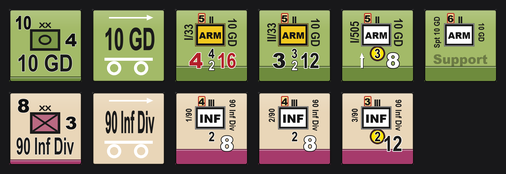
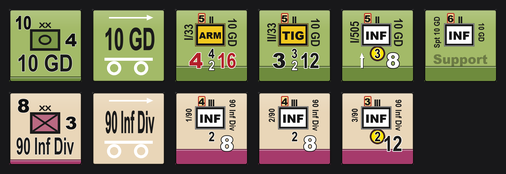
feat(army): 整编制一键复制 + CSV 导入/导出（含命令行 --export-csv / --import-csv）

Changed region(s): [[0.5336, 0.1724, 0.6225, 0.2299], [0.8893, 0.1724, 0.9486, 0.2299], [0.7115, 0.1724, 0.7708, 0.2299]]

diff --git a/bcs_army.py b/bcs_army.py
@@ -1,4 +1,4 @@
-# -*- coding: utf-8 -*-
+# -*- coding: utf-8 -*-
 """军队编辑器（Army Editor）：表格批量编辑 + 一键出整套算子。
 
 一行一枚算子，按「编制」分组：同一个编制（formation_id）共用一个番号、一套底色与编制色带；
@@ -9,6 +9,7 @@
 """
 from __future__ import annotations
 
+import csv
 import json
 import os
 import re
@@ -70,7 +71,7 @@ def flags_of(row: dict) -> str:
 
 
 def new_row(kind: str, formation_id: str, **kw) -> dict:
-    row = dict(kind=kind, unit_id="", formation_id=formation_id, size_label="II",
+    row = dict(kind=kind, unit_id="", formation_id=formation_id, size_label="II", symbol="",
                ar="5", av="", quality="3", rng="", ma="8",
                move_class="tac", av_class="red",
                hard=False, assault=False, no_rebuild=False, breakthrough=False,
@@ -82,7 +83,7 @@ def new_row(kind: str, formation_id: str, **kw) -> dict:
 def counter_from(row: dict, form: dict) -> R.Counter:
     """把表格行 + 编制设置落成一枚 Counter。"""
     kind = row.get("kind", "inf")
-    sym = form.get("symbol") or KIND_SYMBOL.get(kind, "inf")
+    sym = (row.get("symbol") or "").strip() or form.get("symbol") or KIND_SYMBOL.get(kind, "inf")
     ct = R.Counter(
         kind=kind,
         unit_id=str(row.get("unit_id", "") or ""),
@@ -159,6 +160,105 @@ def add_formation(army: dict, fid: str, bg: str, bar: str, symbol: str,
     army["rows"].append(new_row("inf", fid, unit_id="", symbol=None))
 
 
+
+CSV_FIELDS = ["kind", "unit_id", "formation_id", "size_label", "ar", "av", "quality",
+              "rng", "ma", "move_class", "av_class", "hard", "assault", "no_rebuild",
+              "breakthrough", "command_radius", "arty", "activation",
+              "bg", "bar_color", "symbol"]
+CSV_TEXT = ["kind", "unit_id", "formation_id", "size_label", "ar", "av", "quality",
+            "rng", "ma", "move_class", "av_class", "command_radius", "arty", "activation",
+            "symbol"]
+CSV_BOOL = ["hard", "assault", "no_rebuild", "breakthrough"]
+CSV_TRUE = {"1", "true", "yes", "y", "是", "√", "on"}
+
+
+def duplicate_formation(army: dict, src: str, dst: str, hq_id: str = "",
+                        copy_colors: bool = True, suffix: str = "") -> int:
+    """整编制复制：把 src 的所有行原样复制到 dst（含 HQ / 补给车 / 战斗单位）。
+
+    - 行的 formation_id 换成 dst；HQ 的番号可指定，未指定则沿用原来的
+    - suffix 非空时，追加到每个番号后面（例如把 "I/33" 变成 "I/33/11"）
+    - 新行紧跟在源编制的最后一行之后，方便连着看
+    """
+    if not src or not dst or src == dst:
+        return 0
+    form = formation_of(army, src)
+    new_form = formation_of(army, dst)
+    if copy_colors:
+        for k in ("bg", "band", "bar_color", "symbol"):
+            if k in form:
+                new_form[k] = form[k]
+
+    idxs = [i for i, r in enumerate(army["rows"])
+            if str(r.get("formation_id", "") or "") == src]
+    if not idxs:
+        return 0
+
+    clones = []
+    for i in idxs:
+        row = dict(army["rows"][i])
+        row["formation_id"] = dst
+        if suffix:
+            row["unit_id"] = (str(row.get("unit_id", "") or "") + suffix).strip()
+        if row.get("kind") == "hq" and hq_id:
+            row["unit_id"] = hq_id
+        clones.append(row)
+
+    at = max(idxs) + 1
+    army["rows"][at:at] = clones
+    return len(clones)
+
+
+def export_csv(army: dict, path: str) -> int:
+    """把军队导出成 CSV（utf-8-sig，Excel 直接双击不乱码）。"""
+    with open(path, "w", encoding="utf-8-sig", newline="") as f:
+        w = csv.DictWriter(f, fieldnames=CSV_FIELDS, extrasaction="ignore")
+        w.writeheader()
+        for row in army["rows"]:
+            fid = str(row.get("formation_id", "") or "")
+            form = formation_of(army, fid) if fid else {}
+            out = {}
+            for k in CSV_FIELDS:
+                if k in CSV_BOOL:
+                    out[k] = 1 if row.get(k) else 0
+                elif k == "symbol":
+                    out[k] = (row.get("symbol") or "").strip() or form.get("symbol", "")
+                elif k in ("bg", "bar_color"):
+                    out[k] = form.get(k, "")
+                else:
+                    out[k] = row.get(k, "")
+            w.writerow(out)
+    return len(army["rows"])
+
+
+def import_csv(path: str) -> dict:
+    """从 CSV 读回军队；同一编制的底色/色带/符号取该编制第一行里出现的值。"""
+    army = empty_army()
+    army["meta"]["name"] = os.path.splitext(os.path.basename(path))[0]
+    with open(path, encoding="utf-8-sig", newline="") as f:
+        reader = csv.DictReader(f)
+        have = set(reader.fieldnames or [])
+        for rec in reader:
+            kind = (rec.get("kind") or "inf").strip() or "inf"
+            fid = (rec.get("formation_id") or "").strip()
+            row = new_row(kind, fid)
+            for k in CSV_TEXT:
+                if k in have:                    # 表里有这一列 → 原样采用（空值也照抄）
+                    row[k] = (rec.get(k) or "").strip()
+            for k in CSV_BOOL:
+                row[k] = str(rec.get(k, "")).strip().lower() in CSV_TRUE
+            army["rows"].append(row)
+            if fid:
+                form = formation_of(army, fid)
+                fresh = not any(str(r.get("formation_id", "")) == fid
+                                for r in army["rows"][:-1])
+                if fresh:
+                    for k in ("bg", "bar_color", "symbol"):
+                        v = (rec.get(k) or "").strip()
+                        if v:
+                            form[k] = v
+    return army
+
 # --------------------------------------------------------------------- 导出
 def export_army(army: dict, outdir: str, size: int = 75, pair: bool = True,
                 sheet: bool = True) -> dict:
@@ -231,8 +331,12 @@ class ArmyApp:
         ttk.Combobox(bar, values=[70, 75, 94, 120, 150], width=5,
                      textvariable=self.size_var).pack(side="left")
         ttk.Separator(bar, orient="vertical").pack(side="left", fill="y", padx=6)
-        ttk.Button(bar, text="载入军队 JSON", command=self.load_json).pack(side="left")
-        ttk.Button(bar, text="保存军队 JSON", command=self.save_json).pack(side="left", padx=2)
+        ttk.Button(bar, text="载入 JSON", command=self.load_json).pack(side="left")
+        ttk.Button(bar, text="保存 JSON", command=self.save_json).pack(side="left", padx=2)
+        ttk.Separator(bar, orient="vertical").pack(side="left", fill="y", padx=6)
+        ttk.Button(bar, text="复制编制…", command=self.dup_formation).pack(side="left")
+        ttk.Button(bar, text="导出 CSV", command=self.export_csv_file).pack(side="left", padx=2)
+        ttk.Button(bar, text="导入 CSV", command=self.import_csv_file).pack(side="left")
 
     # ---------------- 主体：左表格 / 右编辑
     def _build_body(self):
@@ -537,6 +641,91 @@ class ArmyApp:
             self._refresh_tree(keep=j)
             self.load_row()
 
+
+    # ---------------- 整编制复制 / CSV
+    def dup_formation(self):
+        row = self.cur()
+        src0 = str(row.get("formation_id", "") or "") if row else ""
+        if not self.army["formations"]:
+            messagebox.showinfo("提示", "还没有编制可复制。")
+            return
+
+        dlg = tk.Toplevel(self.root)
+        dlg.title("整编制复制")
+        dlg.transient(self.root)
+        dlg.grab_set()
+        f = ttk.Frame(dlg, padding=12)
+        f.pack(fill="both", expand=True)
+
+        v = {k: tk.StringVar() for k in ("src", "dst", "hq", "suffix")}
+        v["src"].set(src0 or sorted(self.army["formations"])[0])
+        v["dst"].set((src0 or "New") + " (copy)")
+        copy_colors = tk.BooleanVar(value=True)
+
+        ttk.Label(f, text="源编制", width=10, anchor="e").grid(row=0, column=0, sticky="e", pady=2)
+        cb_src = ttk.Combobox(f, textvariable=v["src"], state="readonly",
+                              values=sorted(self.army["formations"]))
+        cb_src.grid(row=0, column=1, sticky="we", pady=2)
+        ttk.Label(f, text="新编制番号", width=10, anchor="e").grid(row=1, column=0, sticky="e", pady=2)
+        ttk.Entry(f, textvariable=v["dst"]).grid(row=1, column=1, sticky="we", pady=2)
+        ttk.Label(f, text="新 HQ 番号", width=10, anchor="e").grid(row=2, column=0, sticky="e", pady=2)
+        ttk.Entry(f, textvariable=v["hq"]).grid(row=2, column=1, sticky="we", pady=2)
+        ttk.Label(f, text="番号后缀", width=10, anchor="e").grid(row=3, column=0, sticky="e", pady=2)
+        ttk.Entry(f, textvariable=v["suffix"]).grid(row=3, column=1, sticky="we", pady=2)
+        ttk.Checkbutton(f, text="沿用源编制的底色 / 色带 / 符号", variable=copy_colors
+                        ).grid(row=4, column=0, columnspan=2, sticky="w", pady=(4, 0))
+        ttk.Label(f, text="提示：HQ 番号留空则沿用原值；后缀会拼在每行番号之后（如 /11）。",
+                  foreground="#666", wraplength=320).grid(row=5, column=0, columnspan=2,
+                                                          sticky="w", pady=(6, 0))
+        f.columnconfigure(1, weight=1)
+
+        def ok():
+            src, dst = v["src"].get().strip(), v["dst"].get().strip()
+            if not dst:
+                messagebox.showwarning("提示", "新编制番号不能为空。", parent=dlg)
+                return
+            n = duplicate_formation(self.army, src, dst, v["hq"].get().strip(),
+                                    bool(copy_colors.get()), v["suffix"].get().strip())
+            dlg.destroy()
+            if n:
+                self._refresh_tree(keep=len(self.army["rows"]) - 1)
+                self.set_status(f"已复制编制「{src}」→「{dst}」，共 {n} 行")
+            else:
+                messagebox.showinfo("提示", "没有可复制的行（源编制为空？）")
+
+        ttk.Button(f, text="复制", command=ok).grid(row=6, column=0, columnspan=2,
+                                                   sticky="we", pady=(10, 0))
+
+    def export_csv_file(self):
+        os.makedirs(OUTDIR, exist_ok=True)
+        path = filedialog.asksaveasfilename(initialdir=OUTDIR, defaultextension=".csv",
+                                            filetypes=[("CSV", "*.csv")],
+                                            initialfile="army.csv")
+        if not path:
+            return
+        n = export_csv(self.army, path)
+        self.set_status(f"已导出 {n} 行 → {path}")
+        messagebox.showinfo("完成", f"已导出 {n} 行到\n{path}\n\n可用 Excel 直接打开（UTF-8 BOM）。")
+
+    def import_csv_file(self):
+        path = filedialog.askopenfilename(initialdir=OUTDIR,
+                                          filetypes=[("CSV", "*.csv")])
+        if not path:
+            return
+        try:
+            army = import_csv(path)
+        except Exception as exc:
+            messagebox.showerror("导入失败", str(exc))
+            return
+        if not army["rows"]:
+            messagebox.showwarning("提示", "这个 CSV 里没有可用的行。")
+            return
+        self.army = army
+        self._refresh_tree()
+        self._select_first()
+        self.set_status(f"已导入 {len(army['rows'])} 行 / "
+                        f"{len(army['formations'])} 个编制：{path}")
+
     # ---------------- 编制
     def new_formation(self):
         dlg = tk.Toplevel(self.root)
@@ -689,6 +878,29 @@ class ArmyApp:
 
 def main(argv=None):
     argv = list(sys.argv[1:] if argv is None else argv)
+
+    def _arg(flag, default=None):
+        return argv[argv.index(flag) + 1] if flag in argv else default
+
+    # CSV 导出（从现有军队 json 或示例军队出发）
+    if "--export-csv" in argv:
+        src = _arg("--spec", SPEC if os.path.exists(SPEC) else None)
+        dst = _arg("--export-csv")
+        army = load_army(src) if src else empty_army()
+        n = export_csv(army, dst)
+        print(f"已导出 {n} 行 → {dst}")
+        return 0
+
+    # CSV 导入后直接出图
+    if "--import-csv" in argv:
+        army = import_csv(_arg("--import-csv"))
+        out = _arg("--out", OUTDIR)
+        size = int(_arg("--size", 75))
+        res = export_army(army, out, size=size)
+        print(f"已导入 {len(army['rows'])} 行；生成 {res['count']} 枚算子 / "
+              f"{len(res['files'])} 个文件 → {out}")
+        return 0
+
     if "--spec" in argv:
         spec = argv[argv.index("--spec") + 1]
         out = argv[argv.index("--out") + 1] if "--out" in argv else OUTDIR

diff --git a/bcs_army_demo.py b/bcs_army_demo.py
@@ -1,4 +1,4 @@
-# -*- coding: utf-8 -*-
+# -*- coding: utf-8 -*-
 """生成一份“示例军队”：两个编制，每个编制 = HQ + 补给车 + 若干战斗单位。"""
 import os
 import sys
@@ -25,15 +25,15 @@ rows = army["rows"]
 rows[0].update(ar="10", size_label="XX", command_radius="10", arty="4", ma="8",
                activation="4", quality="4")
 rows[1].update(unit_id="10 GD Sup")
-rows[2].update(unit_id="I/33", size_label="II", ar="5", av="4", quality="4",
+rows[2].update(unit_id="I/33", size_label="II", ar="5", av="4", quality="4", symbol="armor",
                rng="2", ma="16", move_class="tac", av_class="red", hard=True)
-army["rows"].append(A.new_row("av", "10 GD", unit_id="II/33", size_label="II", ar="5",
+army["rows"].append(A.new_row("av", "10 GD", unit_id="II/33", size_label="II", ar="5", symbol="tiger",
                               av="3", quality="3", rng="2", ma="12",
                               move_class="truck", av_class="standoff", hard=True))
-army["rows"].append(A.new_row("inf", "10 GD", unit_id="I/505", size_label="II", ar="5",
+army["rows"].append(A.new_row("inf", "10 GD", unit_id="I/505", size_label="II", ar="5", symbol="inf",
                               quality="3", rng="", ma="8", move_class="leg",
                               assault=True, no_rebuild=True))
-army["rows"].append(A.new_row("support", "10 GD", unit_id="Spt 10 GD", size_label="II",
+army["rows"].append(A.new_row("support", "10 GD", unit_id="Spt 10 GD", size_label="II", symbol="inf",
                               ar="6", av="", quality="", rng="", ma=""))
 
 # ---- 编制 2：90 Inf Div
@@ -43,11 +43,11 @@ b = len(rows) - 3
 rows[b].update(ar="10", size_label="XX", command_radius="8", arty="3", ma="8",
                activation="4", quality="3")
 rows[b + 1].update(unit_id="90 ID Sup")
-rows[b + 2].update(unit_id="1/90", size_label="III", ar="4", quality="2",
+rows[b + 2].update(unit_id="1/90", size_label="III", ar="4", quality="2", symbol="inf",
                    rng="", ma="8", move_class="leg")
-army["rows"].append(A.new_row("inf", "90 Inf Div", unit_id="2/90", size_label="III",
+army["rows"].append(A.new_row("inf", "90 Inf Div", unit_id="2/90", symbol="inf", size_label="III",
                               ar="4", quality="2", rng="", ma="8", move_class="leg"))
-army["rows"].append(A.new_row("inf", "90 Inf Div", unit_id="3/90", size_label="III",
+army["rows"].append(A.new_row("inf", "90 Inf Div", unit_id="3/90", symbol="inf", size_label="III",
                               ar="3", quality="2", rng="", ma="12",
                               move_class="truck", no_rebuild=True))
 

diff --git a/bcs_verify_army_feat.py b/bcs_verify_army_feat.py
@@ -1,0 +1,71 @@
+# -*- coding: utf-8 -*-
+"""军队编辑器新增两功能的回归：整编制复制 + CSV 往返。"""
+import os
+import sys
+import tkinter as tk
+
+sys.path.insert(0, os.path.dirname(os.path.abspath(__file__)))
+import bcs_army as A  # noqa: E402
+
+for _s in (sys.stdout, sys.stderr):
+    try:
+        _s.reconfigure(encoding="utf-8")
+    except Exception:
+        pass
+
+HERE = os.path.dirname(os.path.abspath(__file__))
+TMP = os.path.join(HERE, "out", "_army_feat")
+os.makedirs(TMP, exist_ok=True)
+
+root = tk.Tk()
+root.withdraw()
+app = A.ArmyApp(root)
+
+n0 = len(app.army["rows"])
+f0 = len(app.army["formations"])
+print(f"起始：{n0} 行 / {f0} 编制 {sorted(app.army['formations'])}")
+
+# ---- 1) 整编制复制
+added = A.duplicate_formation(app.army, "10 GD", "11 GD", hq_id="11 GD HQ", suffix="/11")
+print(f"复制编制：新增 {added} 行 → 共 {len(app.army['rows'])} 行 / "
+      f"{len(app.army['formations'])} 编制 {sorted(app.army['formations'])}")
+c11 = [r for r in app.army["rows"] if r["formation_id"] == "11 GD"]
+print("  新编制行:", [(r["kind"], r["unit_id"]) for r in c11])
+print("  配色沿用:", app.army["formations"]["11 GD"])
+
+# 同名复制应被拒绝
+print("  自复制返回:", A.duplicate_formation(app.army, "10 GD", "10 GD"))
+
+# ---- 2) CSV 往返
+csv_path = os.path.join(TMP, "army.csv")
+n = A.export_csv(app.army, csv_path)
+print(f"导出 CSV：{n} 行 → {csv_path}")
+
+back = A.import_csv(csv_path)
+print(f"读回 CSV：{len(back['rows'])} 行 / {len(back['formations'])} 编制")
+
+# 逐字段比对
+keys = ("kind", "unit_id", "formation_id", "size_label", "ar", "av", "quality",
+        "rng", "ma", "move_class", "av_class", "hard", "assault", "no_rebuild",
+        "breakthrough", "command_radius", "arty", "activation")
+diff = 0
+for a, b in zip(app.army["rows"], back["rows"]):
+    for k in keys:
+        va = a.get(k, "")
+        vb = b.get(k, "")
+        if isinstance(va, bool) or isinstance(vb, bool):
+            if bool(va) != bool(vb):
+                diff += 1
+                print("  差异", k, va, vb)
+        elif str(va) != str(vb):
+            diff += 1
+            print("  差异", k, repr(va), repr(vb))
+print("字段差异数:", diff)
+print("配色回读:", back["formations"].get("11 GD"))
+
+# ---- 3) 复制后的军队能正常出图
+res = A.export_army(back, os.path.join(TMP, "png"), size=75)
+print(f"读回后出图：{res['count']} 枚 / {len(res['files'])} 文件")
+
+root.destroy()
+print("OK")
